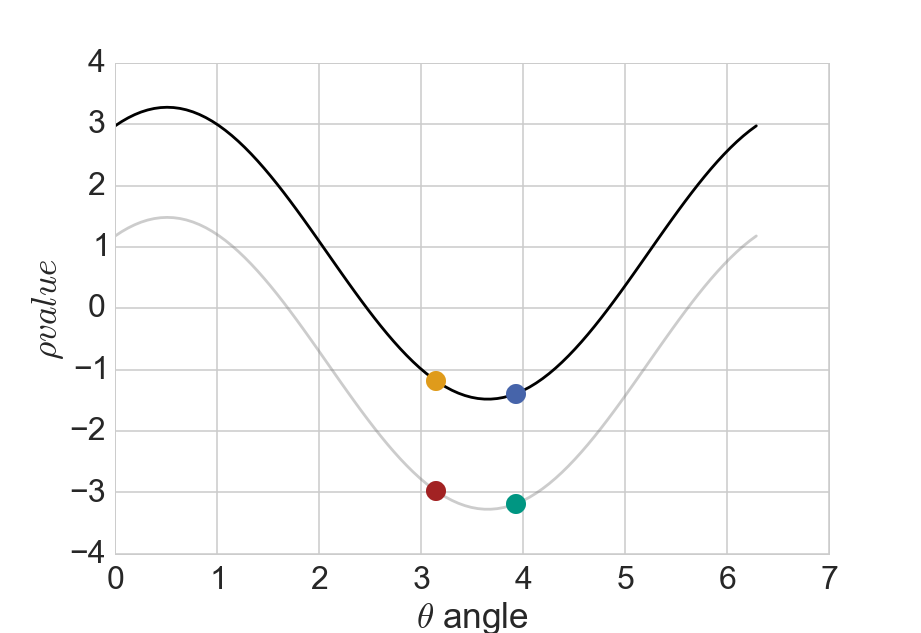
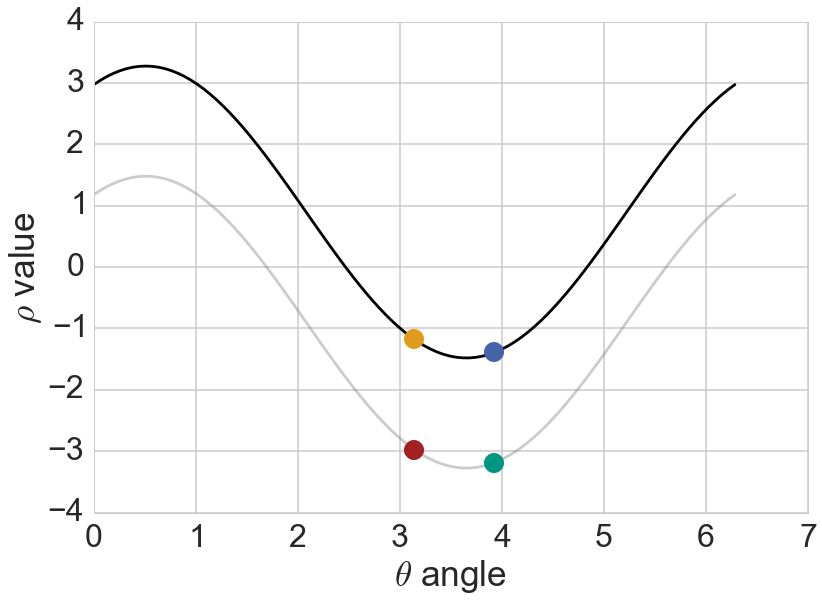
Last changes

diff --git a/tex/track_finding.tex b/tex/track_finding.tex
@@ -67,14 +67,12 @@ The reason to have two track finders for the CDC is their different ansatz. The 
 \subsection{The Legendre Track Finder}
 The principle of using the legendre transformation for tracking algorithms in high energy physics particle experiments was first described by Alexopoulos \cite{legendre}. It uses an extended version of the hough transformation introduced by Paul V.C. Hough in 1962 \cite{hough}. The algorithm uses the fact that each trajectory in the $r$-$\phi$-plane of the detector can be described by a circle - assuming no energy loss - because of the direction of the applied magnetic field. In a first approximation one can also assume that each particles comes from the interaction point which is valid for the bigger part of the decay products. Therefore the trajectory in the $r$-$\phi$ direction can be described by two parameters: the radius $R$ of the circle and the angle $\theta$ between an arbitrary but fixed axis and the tangent to the circle at the interaction point.\footnote{When dropping the last assumption of tracks coming from the origin one has to introduce another parameter - often called $d_0$ - which describes the minimal distance from the circle to the origin in the $r$-$\phi$ plane. It is easy to generalize the described algorithm to these three dimensions. In the moment this third dimension is however not implemented in the tracking software.}
 
-Simplified, the idea is to calculate each trajectory that could have possibly created one of the axial hits and draw them all in a 2d histogram with the trajectory parameters $R$ and $\theta$ as the coordinate axes. As there are only a small number of correct trajectory which are responsible for a great number of hits there is a small parameter set which appears very often in the histogram. These parameters can then be used to create tracks.
+Simplified, the idea is to calculate each trajectory that could have possibly created one of the axial hits and draw them all in a 2d histogram with the trajectory parameters $R$ (more precisely with $\rho = 1/R$) and $\theta$ as the coordinate axes. As there are only a small number of correct trajectory which are responsible for a great number of hits there is a small parameter set which appears very often in the histogram. These parameters can then be used to create tracks.
 
 For applying this algorithm the $x$ and $y$ coordinate pair of every axial wire hit together with the drift length $d$ is transformed by the functions
-\begin{align*} x' = \frac{2x}{x^2 + y^2 - d^2}\ , \qquad y' = \frac{2y}{x^2 + y^2 - d^2}\ ,  \qquad d' = \frac{2R}{x^2 + y^2 - d^2}\quad \text{and} \end{align*}
-$$R = x' \cos(\theta) + y' \sin(\theta) \pm d'$$
-into the legendre space as shown in figure \ref{fig-legendre-explained}. In the first step of the transformation, the wire hits are transformed to the inverted plane. With this transformation each circular trajectory through the interaction point is mapped onto a line. The two trajectory parameters $R$ and $\theta$ are now functions of the slope and the axis interception of this line. 
-
-After that, each drift circle is transformed into a pair of sinusoidal functions - also called sinograms. This function is constructed in a way to use the fact that each trajectory of a charged particle responsible for a wire hit must touch the drift circle tangentially. Each point on the constructed sinusoidal functions correspond to one possible trajectory of a particle which could have created such a hit. There are two sinusoidal functions because the osculation point can be on the far or the near side of the drift circle - the trajectory circle can circumscribe the drift circle or not.
+\begin{align} x' = \frac{2x}{x^2 + y^2 - d^2}\ , \qquad y' = \frac{2y}{x^2 + y^2 - d^2}\ ,  \qquad d' = \frac{2R}{x^2 + y^2 - d^2}\quad \text{and} \label{eq-inverse} \end{align}
+\begin{align}\rho(\theta) = x' \cos(\theta) + y' \sin(\theta) \pm d' \label{eq-legendre}\end{align}
+into the legendre space as shown in figure \ref{fig-legendre-explained}. In the first step of the transformation, the wire hits are transformed to the inverted plane. With the transformation in equation \ref{eq-inverse} each circular trajectory through the interaction point is mapped onto a line. The two trajectory parameters $R = 1/\rho$ and $\theta$ are now functions of the slope and the axis interception of this line. After that, each drift circle is transformed into a pair of sinusoidal functions - also called sinograms. This function $\rho(\theta)$ in \ref{eq-legendre} is constructed in a way to use the fact that each trajectory of a charged particle responsible for a wire hit must touch the drift circle tangentially. Each point on the constructed sinusoidal functions correspond to one possible trajectory of a particle which could have created such a hit. There are two sinusoidal functions because the osculation point can be on the far or the near side of the drift circle - the trajectory circle can circumscribe the drift circle or not. This is also shown in figure \ref{fig-sinusodial}.
 
 \begin{figure}
  \centering
@@ -85,8 +83,16 @@ After that, each drift circle is transformed into a pair of sinusoidal functions
  \label{fig-legendre-explained}
 \end{figure}
 
-\todo{picture?}
-With using the information of a single hit one ends up with an infinite number of trajectory hypothesis. But as a charged particle passed many drift cells until it leaves the CDC detector - in some cases up to 100 hits - several wire hits are created with the same trajectory parameters. As these same parameters correspond to the same point in the legendre space, the sinusoidal functions of the wire hits intersect in this point as it can also be seen in figure \ref{fig-legendre-explained}. The task of the legendre algorithm is now to do the transformation of the hit coordinates and find those intersections.
+\begin{figure}
+  \centering
+  \includegraphics[scale=0.2]{figures/theory/sinosodial_1.png}
+  \includegraphics[scale=0.2]{figures/theory/sinosodial_2.png}
+  \caption[Sinograms in the legendre algorithm.]{The left picture shows one single oversized drift circle (black) and four trajectories (in color) that could have possibly created that hit as they touch the drift circle tangentially. The hit is transformed into two sinograms on the right picture. The drift circle lays on the outside of the green and the red trajectory (the gray sinogram = right side) and on the inside of the blue and the yellow one (the black sinogram = left side).}
+  \label{fig-sinosodial}
+\end{figure}
+
+
+With using the information of a single hit one ends up with an infinite number of trajectory hypothesis. But as a charged particle passed many drift cells until it leaves the CDC detector - in some cases up to 100 hits - several wire hits are created with the same trajectory parameters. As these same parameters correspond to the same point in the legendre space, the sinusoidal functions of the wire hits intersect in this point as it can also be seen in figure \ref{fig-legendre-explained} (right subfigure). The task of the legendre algorithm is now to do the transformation of the hit coordinates and find those intersections.
 
 Imperfections due to energy loss and material effects make the sinusoidal function not intersect in one single point but rather in a smeared area. To cope with this problem but still find the intersections with a good performance a peak search in the binned legendre space is applied. For each bin the number of sinusoidal functions passing this area is counted. The bin with the highest weight is assumed to be the bin with the highest number of sinusoidal intersections. From the wire hits contributing to this bin a new track is created and the search is repeated with those hits deleted until a threshold in the bin entry is undercut. As the legendre space is mostly empty this procedure can be further improved in performance by refining the bin division from very coarse bin sizes to finer ones only for those bins which have a certain amount of sinusoidal functions in them. Because these bins are divided into 4 subbins with every refinement step the concept is called quad tree search. The whole search is depicted in figure \ref{fig-quad-tree-search}.
 
